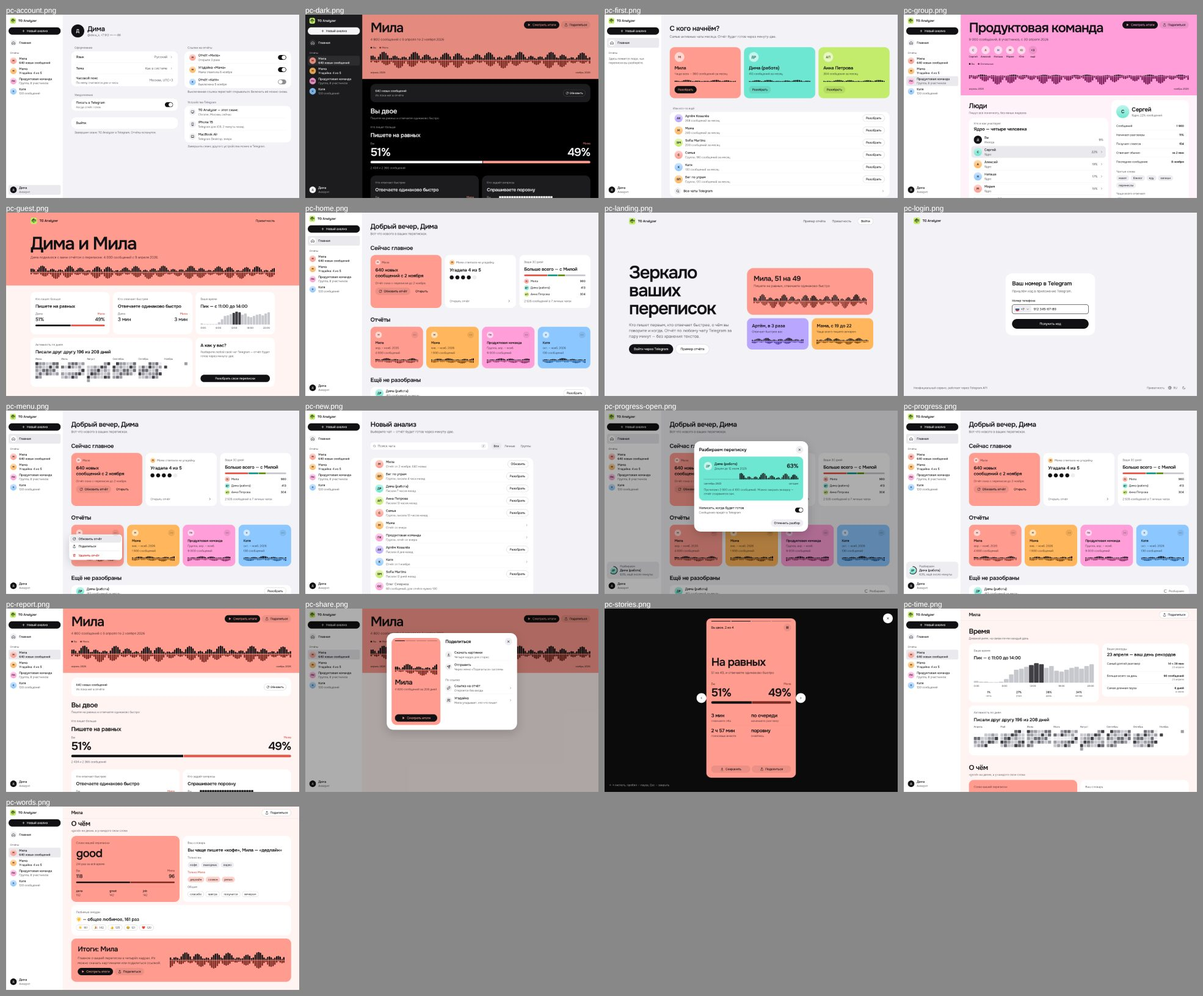
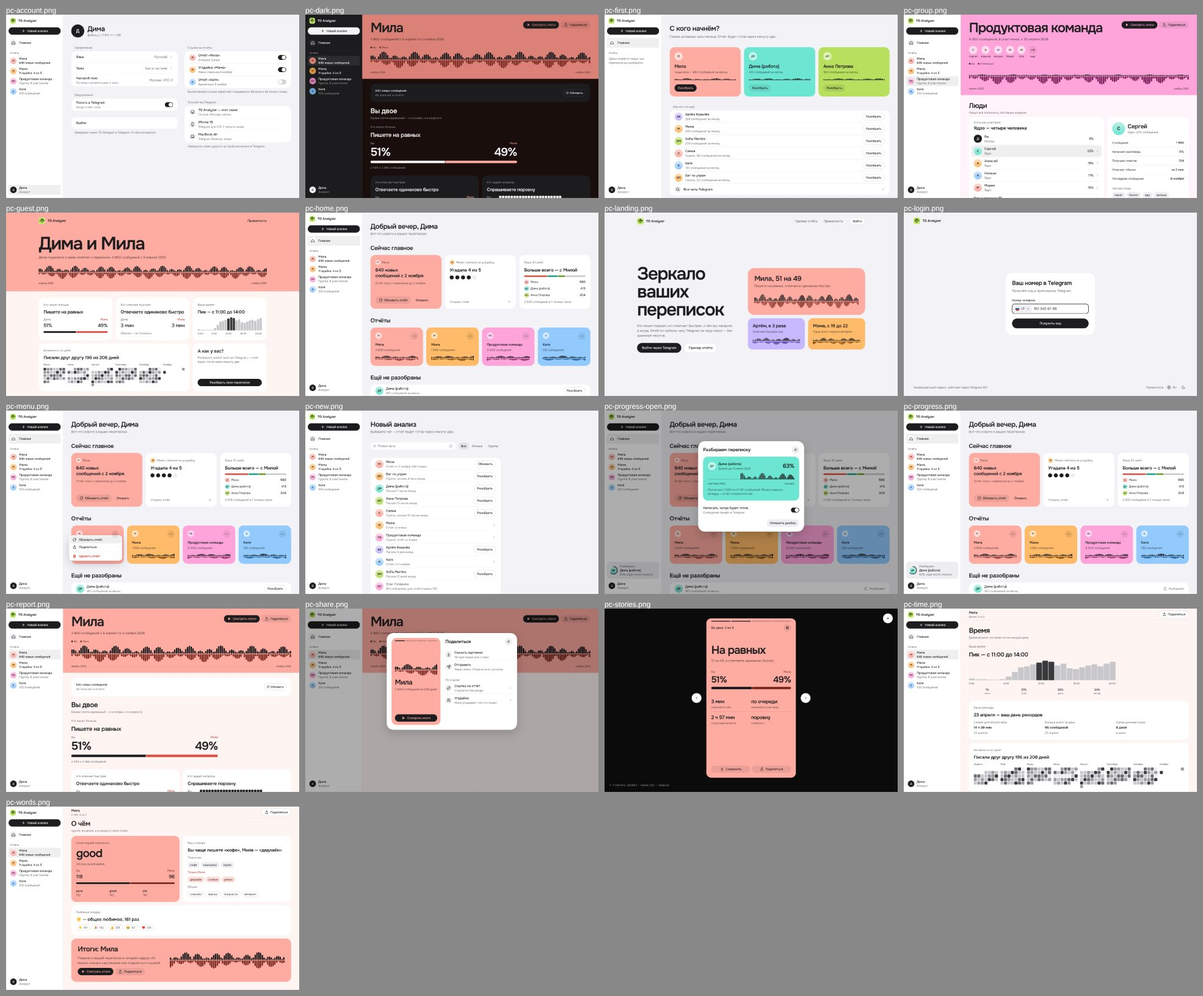
Mockups read as one product: one row value, one sheet anatomy, chapter in the desktop header, tinted dark rooms
Claude-Session: https://claude.ai/code/session_0138LxsFKP5n8SxjtSAnZS23

diff --git a/docs/design/portrait-v3/generator/desktop.py b/docs/design/portrait-v3/generator/desktop.py
@@ -19,7 +19,7 @@ def sec(title, inner, extra=''):
 def quiz_tile():
     dots = ''.join(f'<i style="width:20px;height:20px;border-radius:50%;background:{"var(--you)" if k < 4 else "var(--surface-2)"}"></i>' for k in range(5))
     return f'''<a href="#" class="tile">
-  <span class="row-f gap-2 t-small muted">{av('mama', 24)}Мама ответила на угадайку</span>
+  <span class="ev-label t-small muted">{av('mama', 24)}Мама ответила на угадайку</span>
   <h3 class="a">Угадала 4 из 5</h3><span class="row-f gap-2" aria-hidden="true">{dots}</span>
   <span class="row-f between t-small muted mt-auto">Открыть отчёт{ic('chev', 'chev')}</span></a>'''
 
@@ -27,15 +27,15 @@ def quiz_tile():
 def month_tile():
     data = [('mila', 980), ('dima', 413), ('anna', 304)]
     segs = ''.join(f'<i data-hue="{P[k][2]}" style="flex:{n};background:var(--them)"></i>' for k, n in data) + '<i style="flex:838;background:var(--chart-neutral)"></i>'
-    rows = ''.join(f'<div class="row-f gap-2">{av(k, 24)}<span class="t-small grow trunc">{P[k][0]}</span><span class="t-small-strong">{n}</span></div>' for k, n in data)
-    return f'''<article class="tile"><p class="q">Ваши 30 дней</p><h3 class="a">Больше всего — с Милой</h3>
+    rows = ''.join(f'<div class="row-f gap-2">{av(k, 24)}<span class="t-small grow trunc">{P[k][0]}</span><span class="val">{n}</span></div>' for k, n in data)
+    return f'''<article class="tile"><p class="q ev-label">Ваши 30 дней</p><h3 class="a">Больше всего — с Милой</h3>
   <div class="bar" role="img" aria-label="Мила 980, Дима (работа) 413, Анна Петрова 304, остальные 838">{segs}</div>
   <div class="stack gap-2">{rows}</div><p class="note mt-auto">2 535 сообщений в 7 личных чатах</p></article>'''
 
 
 def home_reports(menu=''):
-    return ('<div class="grid-4">' + mini_poster('mila', '4 800 сообщений', 1, 188, 'апр. – нояб. 2026', menu=menu) + mini_poster('mama', '1 900 сообщений', 2, 188, 'янв. – нояб. 2026')
-            + mini_poster('team', '9 000 сообщений', 3, 188, 'Группа, апр. – нояб.') + mini_poster('katya', '130 сообщений', 4, 188, 'окт. – нояб. 2026') + '</div>')
+    return ('<div class="grid-4">' + mini_poster('mila', '4 800 сообщений', 1, 188, menu=menu) + mini_poster('mama', '1 900 сообщений', 2, 188)
+            + mini_poster('team', '9 000 сообщений', 3, 188) + mini_poster('katya', '130 сообщений', 4, 188) + '</div>')
 
 
 def home_main(menu='', busy=None):
@@ -86,9 +86,10 @@ def poster_pc(name='Мила', meta='4 800 сообщений с 9 апреля 
 </section>'''
 
 
-def report_bar(name):
-    """The header after the poster has scrolled away: material, the name and one action. No chapter switcher."""
-    return f'<div class="row-f gap-4 material" style="padding:var(--space-3) var(--page-gutter)"><span class="t-h3 grow">{name}</span>{btn("Поделиться", "secondary", "md", "share")}</div>'
+def report_bar(name, chapter=''):
+    """The header after the poster has scrolled away: material, the name, the chapter under it, one action. No chapter switcher."""
+    ch = f'<span class="t-caption muted" style="font-weight:400">{chapter}</span>' if chapter else ''
+    return f'<div class="row-f gap-4 material" style="padding:var(--space-2) var(--page-gutter)"><span class="grow stack"><b class="t-title" style="font-weight:600">{name}</b>{ch}</span>{btn("Поделиться", "secondary", "md", "share")}</div>'
 
 
 T_VOICE = tile('Голосовые', 'Мила записывает дольше', cmp('Вы', 'Мила', '1 ч 12 мин', '1 ч 45 мин', 41)
@@ -112,11 +113,11 @@ def D_time():
     body = f'''<div class="cards" style="flex:1;min-height:0;overflow:hidden;padding:var(--space-6) var(--page-gutter)">{chapter_head('Время', LEDE['time'])}
   {T_HOURS}{records_pc()}{heat_tile}
   <div style="height:var(--space-6)"></div>{chapter_head('О чём', LEDE['words'])}<div class="grid-2">{WORD}{VOCAB}</div></div>'''
-    return shell(sidebar('mila'), report_bar('Мила') + body, title='Отчёт — Время', hue='red', room=True)
+    return shell(sidebar('mila'), report_bar('Мила', 'Время, 2 из 3') + body, title='Отчёт — Время', hue='red', room=True)
 
 
 def records_pc():
-    facts = ''.join(f'<div class="stack gap-1"><span class="t-small muted">{k}</span><b class="t-h2">{v}</b><span class="t-small muted">{d}</span></div>'
+    facts = ''.join(f'<div class="stack gap-1"><span class="t-small muted">{k}</span><b class="t-title" style="font-weight:600">{v}</b><span class="t-small muted">{d}</span></div>'
                     for k, v, d in [('Самый долгий разговор', '14 ч 39 мин', '23 апреля'), ('Больше всего за день', '96 сообщений', '23 апреля'), ('Самая длинная пауза', '6 дней', 'в июле')])
     return tile('Ваши рекорды', '23 апреля — ваш день рекордов', f'<div class="grid-3">{facts}</div>')
 
@@ -131,7 +132,7 @@ def ending_pc():
 def D_words():
     body = f'''<div class="cards" style="flex:1;min-height:0;justify-content:flex-end;overflow:hidden;padding:0 var(--page-gutter) var(--space-10)">{chapter_head('О чём', LEDE['words'])}
   <div class="grid-2">{WORD}{VOCAB}</div>{EMOJI}{ending_pc()}</div>'''
-    return shell(sidebar('mila'), report_bar('Мила') + body, title='Отчёт — О чём', hue='red', room=True)
+    return shell(sidebar('mila'), report_bar('Мила', 'О чём, 3 из 3') + body, title='Отчёт — О чём', hue='red', room=True)
 
 
 def D_group():
@@ -139,8 +140,8 @@ def D_group():
     poster = poster_pc('Продуктовая команда', '9 000 сообщений, 8 участников, с 30 апреля 2026', ('Вы', 'Остальные'), cast, up_scale=0.2)
     members = tile('Кто и как участвует', 'Ядро — четыре человека', member_rows('sergey') + row('', 'Все участники (8)', '', '', 'compact', True, True), rows=True)
     inspector = f'<aside class="inspector" aria-label="Сергей">{member_body()}</aside>'
-    body = f'''<div style="display:grid;grid-template-columns:minmax(0,1fr) var(--inspector);gap:var(--card-gap);padding:var(--space-6) var(--page-gutter);align-items:start">
-  <div class="cards">{chapter_head('Люди', 'Пишут все понемногу, без явных лидеров')}{members}{awards_tile()}</div>{inspector}</div>'''
+    body = f'''<div style="padding:var(--space-6) var(--page-gutter) 0">{chapter_head('Люди', 'Пишут все понемногу, без явных лидеров')}</div><div style="display:grid;grid-template-columns:minmax(0,1fr) var(--inspector);gap:var(--card-gap);padding:var(--space-3) var(--page-gutter);align-items:start">
+  <div class="cards">{members}{awards_tile()}</div>{inspector}</div>'''
     return shell(sidebar('team'), poster + body, title='Группа — Люди', hue='pink', room=True)
 
 
@@ -187,12 +188,12 @@ def D_share():
 
 
 def D_stories():
-    slide = f'''<div class="poster stack" data-hue="red" role="dialog" aria-modal="true" aria-label="Итоги, кадр 2 из 4" style="position:absolute;left:50%;top:48px;width:440px;height:782px;margin-left:-220px;border-radius:var(--radius-lg);padding:var(--space-3) var(--space-6) var(--space-6);overflow:hidden">
+    slide = f'''<div class="poster stack phone-scale" data-hue="red" role="dialog" aria-modal="true" aria-label="Итоги, кадр 2 из 4" style="position:absolute;left:50%;top:48px;width:440px;height:782px;margin-left:-220px;border-radius:var(--radius-lg);padding:var(--space-3) var(--space-6) var(--space-6);overflow:hidden">
   <div class="story-seg" style="grid-template-columns:repeat(4,1fr)"><i class="on"></i><i class="on"></i><i></i><i></i></div>
   <div class="row-f between" style="margin-top:var(--space-3)"><span class="t-ui">Вы двое, 2 из 4</span>{ibtn('pause', 'Пауза', 'on-poster')}</div>
   {STORY_TOGETHER}{STORY_ACTIONS.replace('"btn btn-poster-2 lg', '"btn btn-poster-2 md')}</div>'''
-    nav = (f'<button class="icon-btn lg" aria-label="Предыдущий кадр" style="position:absolute;left:452px;top:415px">{ic("back")}</button>'
-           f'<button class="icon-btn lg" aria-label="Следующий кадр" style="position:absolute;right:452px;top:415px">{ic("chev")}</button>'
+    nav = (f'<button class="icon-btn lg" aria-label="Предыдущий кадр" style="position:absolute;left:428px;top:415px">{ic("back")}</button>'
+           f'<button class="icon-btn lg" aria-label="Следующий кадр" style="position:absolute;right:428px;top:415px">{ic("chev")}</button>'
            f'<button class="icon-btn lg" aria-label="Закрыть" style="position:absolute;right:var(--space-6);top:var(--space-6)">{ic("x")}</button>'
            f'<p class="t-small" style="position:absolute;left:var(--space-6);bottom:var(--space-6);color:var(--story-hint)">← → листать, пробел — пауза, Esc — закрыть</p>')
     return page('Итоги на ПК', f'<div class="backdrop" style="position:absolute;inset:0"></div>{slide}{nav}', pc=True)
@@ -241,10 +242,10 @@ def D_guest():
   <div class="row-f between">{logo(32, word=True)}<a href="#" class="t-ui">Приватность</a></div>
   <div class="poster-name" style="margin-top:var(--space-10)"><h1 class="t-display">Дима и Мила</h1></div>
   <p class="t-body muted">Дима поделился с вами отчётом о переписке: 4 800 сообщений с 9 апреля 2026.</p>
-  <div style="margin-top:var(--space-4)">{pulse(150, 32, 1.0)}</div></section>'''
+  <div style="margin-top:var(--space-4)">{pulse(150, 32, 1.0)}</div><div class="axis"><span>апрель 2026</span><span>ноябрь 2026</span></div></section>'''
     tiles = f'''<h2 class="sr-only">Главное</h2><div class="grid-3" style="padding:var(--space-8) max(var(--page-gutter), calc((100% - var(--page-max)) / 2 + var(--page-gutter)));align-items:stretch">
   {tile('Кто пишет больше', 'Пишете на равных', cmp('Дима', 'Мила', '51%', '49%', 51))}
-  {tile('Кто отвечает быстрее', 'Отвечаете одинаково быстро', cmp('Дима', 'Мила', '3 мин', '3 мин'))}
+  {tile('Кто отвечает быстрее', 'Отвечаете одинаково быстро', cmp('Дима', 'Мила', '3 мин', '3 мин') + '<p class="note">Обычно — за 3 минуты.</p>')}
   {tile('Ваше время', 'Пик — с 11:00 до 14:00', hours(h=64))}
   <div style="grid-column:1/3">{tile('Активность по дням', 'Писали друг другу 196 из 208 дней', months_heat(MONTHS[2:], 6))}</div>
   <section class="tile" style="justify-content:space-between"><div class="stack gap-2"><h3 class="a">А как у вас?</h3><p class="note">Разберите любой свой чат Telegram — отчёт будет готов через минуту-две.</p></div>{btn('Разобрать свои переписки', 'primary', 'md block', tag='a')}</section>
@@ -266,7 +267,7 @@ def T_home():
 
 
 def T_report():
-    body = f'''{poster_ph()}<div class="cards column" style="padding:var(--space-6) var(--page-gutter)">{stale()}{chapter_head('Вы двое', LEDE['together'])}{HERO_SHARE}{cols2(T_SPEED, T_QUESTIONS)}{T_HABITS}</div>'''
+    body = f'''{poster_ph()}<div class="cards column" style="padding:var(--space-6) var(--page-gutter)">{stale()}{chapter_head('Вы двое', LEDE['together'])}{HERO_SHARE}<div class="grid-2">{T_SPEED}{T_QUESTIONS}</div>{T_HABITS}</div>'''
     return page('Планшет — отчёт', body, w=820, h=1180, hue='red', room=True).replace('class="app ph', 'class="app ph tab', 1)
 
 

diff --git a/docs/design/portrait-v3/generator/phone.py b/docs/design/portrait-v3/generator/phone.py
@@ -28,10 +28,10 @@ REPORT_TILES = ('<div class="grid-2">' + mini_poster('mila', '4 800 сообще
 
 def lead_mila():
     return f'''<article class="tile poster" data-hue="red">
-  <a href="#" class="row-f gap-2 t-small muted">{av('mila', 24)}Мила</a>
+  <a href="#" class="ev-label t-small muted">{av('mila', 24)}Мила</a>
   <h3 class="t-h3">640 новых сообщений с 2 ноября</h3>
   <p class="t-small muted">Отчёт пока о переписке до 2 ноября.</p>
-  <div class="row-f gap-2">{btn('Обновить отчёт', 'poster-2', 'md', 'refresh')}{btn('Открыть', 'plain', 'md', tag='a')}</div></article>'''
+  <div class="row-f gap-2 mt-auto">{btn('Обновить отчёт', 'poster-2', 'md', 'refresh')}{btn('Открыть', 'plain', 'md', tag='a')}</div></article>'''
 
 
 def home(lead, theme=None, fab=FAB):
@@ -139,7 +139,8 @@ def report_actions(key='mila'):
 def S_menu():
     sheet = f'''<section class="sheet" role="dialog" aria-modal="true" aria-label="Отчёт «Мила»">
   <span class="grabber"></span>
-  <div class="row-f gap-3">{av('mila', 40)}<div class="grow stack"><h2 class="t-h3">Мила</h2><p class="t-small muted">Отчёт от 2 ноября, 4 800 сообщений</p></div>{ibtn('x', 'Закрыть')}</div>
+  {sheet_head('Отчёт')}
+  <div class="stack">{row(av('mila'), 'Мила', 'Отчёт от 2 ноября, 4 800 сообщений')}</div>
   {report_actions()}
 </section>'''
     return page('Действия с отчётом («⋯» на карточке)', dim_home() + '<div class="scrim"></div>' + sheet)
@@ -180,7 +181,7 @@ def chapter_head(title, lede):
 
 
 HERO_SHARE = hero('Кто пишет больше', 'Пишете на равных', cmp('Вы', 'Мила', '51%', '49%', 51) + '<p class="t-small muted">2 434 и 2 366 сообщений</p>')
-T_SPEED = tile('Кто отвечает быстрее', 'Отвечаете одинаково быстро', cmp('Вы', 'Мила', '3 мин', '3 мин') + '<p class="note">Обычно — за 3 минуты. Ночью дольше у обоих.</p>')
+T_SPEED = tile('Кто отвечает быстрее', 'Отвечаете одинаково быстро', cmp('Вы', 'Мила', '3 мин', '3 мин') + '<p class="note">Обычно — за 3 минуты. Ночью дольше у обоих.</p>')
 T_QUESTIONS = tile('Кто задаёт вопросы', 'Спрашиваете поровну',
                    '<div style="display:grid;grid-template-columns:var(--space-12) minmax(0,1fr);gap:var(--space-2) var(--space-3);align-items:center">'
                    '<span class="t-small muted">Вы</span><span class="squares">' + '<i></i>' * 22 + '</span>'
@@ -239,16 +240,9 @@ def S_ending():
     return page('Отчёт — конец', ph_report_nav('Мила', 'О чём, 3 из 3') + scrolled + ending(), hue='red', room=True)
 
 
-def fan():
-    cards = ''
-    for i, (x, y, r) in enumerate([(0, 6, -8), (12, 2, -2), (24, 0, 5)]):
-        inner = f'<span class="story-seg" style="grid-template-columns:repeat(4,1fr)"><i class="on"></i><i></i><i></i><i></i></span><span class="stack gap-1"><b>Мила</b>{pulse(10, 5, 1.0)}</span>' if i == 2 else ''
-        cards += f'<span class="thumb916" style="left:{x}px;top:{y}px;transform:rotate({r}deg);padding:var(--space-2)">{inner}</span>'
-    return f'<span class="fan" aria-hidden="true">{cards}</span>'
-
-
 def stories_feature(size='md'):
-    return f'''<a href="#" class="feature poster" data-hue="red">{fan()}
+    cover = f'<span class="cover-thumb" aria-hidden="true"><span class="story-seg" style="grid-template-columns:repeat(4,1fr)"><i class="on"></i><i></i><i></i><i></i></span><span class="stack gap-1"><b class="t-small-strong">Мила</b>{pulse(12, 8, 1.0)}</span></span>'
+    return f'''<a href="#" class="feature poster" data-hue="red">{cover}
   <span class="grow stack gap-1"><b class="t-h3">Итоги: Мила</b><span class="t-small muted">Четыре кадра о вашей переписке</span>
   <span style="margin-top:var(--space-3)">{btn('Смотреть', 'poster', size, 'play', tag='span')}</span></span></a>'''
 
@@ -300,7 +294,7 @@ def story(content, i=1, n=4, label='Итоги: Мила'):
 
 
 def S_story_cover():
-    c = f'''<div class="stack grow gap-6" style="justify-content:center">
+    c = f'''<div class="stack grow gap-6 story-body">
   {pulse(40, 72, 1.0)}
   <div class="stack gap-3 poster-name"><h1 class="t-display">Мила</h1><p class="t-h3">4 800 сообщений за 208 дней</p>
   <p class="t-small muted">С 9 апреля по 2 ноября 2026</p></div>
@@ -308,7 +302,7 @@ def S_story_cover():
     return page('Итоги — обложка', story(c, 1, label='Итоги, 1 из 4'), hue='red')
 
 
-STORY_TOGETHER = f'''<div class="stack grow gap-8" style="justify-content:center">
+STORY_TOGETHER = f'''<div class="stack grow gap-8 story-body">
   <div class="stack gap-3"><h1 class="t-display">На равных</h1><p class="t-body muted">51 на 49, и отвечаете одинаково быстро</p></div>
   <div class="big">{cmp('Вы', 'Мила', '51%', '49%', 51)}</div>
   <div class="facts"><div><b>3 мин</b><span>отвечаете оба</span></div><div><b>по очереди</b><span>начинаете разговор</span></div>
@@ -321,7 +315,7 @@ def S_story():
 
 
 def S_story_end():
-    c = f'''<div class="stack grow gap-8" style="justify-content:center">
+    c = f'''<div class="stack grow gap-8 story-body">
   <h1 class="t-display">Вы и Мила</h1>
   <div class="facts"><div><b>51 на 49</b><span>пишете на равных</span></div><div><b>11–14</b><span>ваши часы</span></div>
   <div><b>«good»</b><span>слово переписки</span></div><div><b>196 дней</b><span>из 208 на связи</span></div></div>
@@ -336,12 +330,13 @@ def member_rows(sel=None):
     out = ''
     for k, n, role, s in GROUP_MEMBERS:
         a = av(None, 40, True) if k == 'you' else av(k)
-        out += row(a, n, role, f'<span class="t-ui muted">{s}</span>', 'compact' + (' is-selected' if k == sel else ''), k != 'you', k != 'you')
+        trail = f'<span class="val">{s}</span>' + ('<span class="chev-space"></span>' if k == 'you' else '')
+        out += row(a, n, role, trail, 'compact' + (' is-selected' if k == sel else ''), k != 'you', k != 'you')
     return out
 
 
 def awards_tile():
-    return tile('Номинации', None, ''.join(row(av(k, 32), t, f'<span class="them-ink" data-hue="{P[k][2]}">{P[k][0]}</span>, {v}', '', 'compact') for k, t, v in [
+    return tile('Номинации', None, ''.join(row(av(k, 32), t, f'{P[k][0]}, {v}', '', 'compact') for k, t, v in [
         ('yulia', 'Заводит разговоры', '15% разговоров'), ('alexey', 'Отвечает больше всех', '41 ответ в день'), ('sergey', 'Звезда реакций', '468 реакций'), ('maria', 'Укладывает чат спать', '24 раза')]), rows=True)
 
 
@@ -351,16 +346,14 @@ def S_group():
 
 
 def pairs_tile():
-    def nm(k):
-        return f'<span class="them-ink" data-hue="{P[k][2]}">{P[k][0]}</span>'
-    return tile('Самые плотные пары', 'Наташа и Мария', ''.join(row('', f'{nm(a)} и {nm(b)}', m, f'<span class="t-ui muted">{c}</span>', 'compact') for a, b, m, c in [
+    def duo(a, b):
+        return f'<span class="row-f" style="flex:none">{av(a, 24)}<span style="margin-left:calc(-1 * var(--space-2))">{av(b, 24)}</span></span>'
+    return tile('Самые плотные пары', 'Наташа и Мария', ''.join(row(duo(a, b), f'{P[a][0]} и {P[b][0]}', m, f'<span class="val">{c}</span>', 'compact') for a, b, m, c in [
         ('natasha', 'maria', 'Отвечают друг другу чаще всех', '309'), ('natasha', 'sergey', '', '214'), ('natasha', 'yulia', '', '188')]), rows=True)
 
 
 def starts_tile():
-    def nm(k):
-        return f'<span class="them-ink" data-hue="{P[k][2]}">{P[k][0]}</span>'
-    return tile('Кто начинает разговоры', 'Чаще всех — Юля', ''.join(kv(nm(k), v) for k, v in [('yulia', '15%'), ('alexey', '13%'), ('sergey', '11%')]), rows=True)
+    return tile('Кто начинает разговоры', 'Чаще всех — Юля', ''.join(row(av(k, 24), P[k][0], '', f'<span class="val">{v}</span>', 'compact') for k, v in [('yulia', '15%'), ('alexey', '13%'), ('sergey', '11%')]), rows=True)
 
 
 def S_group_talk():
@@ -374,7 +367,7 @@ def member_body():
     return f'''<div class="row-f gap-3">{av('sergey', 64)}<div class="grow stack"><h3 class="t-h2">Сергей</h3><p class="t-small muted">Ядро, 22% сообщений</p></div></div>
   <div class="stack">{kv('Сообщений', '1 980')}{kv('Начинает разговоры', '11%')}{kv('Получает ответов', '154')}{kv('Отвечает обычно', 'за 2 мин')}{kv('Последнее сообщение', '8 ноября')}</div>
   <div class="stack gap-2"><p class="t-small muted">Частые слова</p>{chips(['макет', 'бэклог', 'еду', 'запиши', 'перенесли'])}</div>
-  <div class="stack"><p class="t-small muted">Чаще всего отвечает</p>{row(av('natasha', 32), 'Наташе', '', '<span class="t-ui muted">214</span>', 'compact')}{row(av('maria', 32), 'Марии', '', '<span class="t-ui muted">156</span>', 'compact')}</div>'''
+  <div class="stack"><p class="t-small muted">Чаще всего отвечает</p>{row(av('natasha', 32), 'Наташе', '', '<span class="val">214</span>', 'compact')}{row(av('maria', 32), 'Марии', '', '<span class="val">156</span>', 'compact')}</div>'''
 
 
 def S_member():

diff --git a/docs/design/portrait-v3/generator/system.py b/docs/design/portrait-v3/generator/system.py
@@ -10,17 +10,36 @@ targets, sheets, bar material), Radix Themes (space 4…80), Primer (layers), Ma
 # on_them = the person on their own poster (lower pulse, their bar, their name; ≥ 4.5:1 on the poster);
 # tint = chips and avatar tops; room = page tint; poster_d = dark theme poster, dimmed so it does not glare.
 # One ladder for all seven (OKLCH L): poster .82–.85 (each family the lightest step that keeps its chroma), tint .92, them .62, them_ink .52,
-# on_them .41, room .977, dark poster = poster − .07 —
+# on_them .41, room .977, dark poster = poster − .12, dark room = the hue at L .18 C .02 —
 # every person is equally loud; each keeps its own hue angle and as much chroma as sRGB allows.
 HUES = {
-    'red':    dict(poster='#FEABA1', tint='#FFDBD5', them='#E04C3E', them_ink='#B92E23', on_them='#7C2C24', room='#FEF5F3', poster_d='#ED9186'),
-    'orange': dict(poster='#FFBB69', tint='#FEDFB8', them='#C66B01', them_ink='#9F5104', on_them='#6F3C02', room='#FEF6EB', poster_d='#E7A556'),
-    'violet': dict(poster='#C6B9FE', tint='#E7DFFF', them='#846CEF', them_ink='#634AD6', on_them='#45339E', room='#F8F6FF', poster_d='#B1A0EF'),
-    'green':  dict(poster='#B8DF5E', tint='#DDEEAC', them='#649820', them_ink='#4A7812', on_them='#365502', room='#F4FBE7', poster_d='#A2C756'),
-    'teal':   dict(poster='#6CE6D2', tint='#BEF1E8', them='#149B8C', them_ink='#147A6A', on_them='#0A574C', room='#EEFBF8', poster_d='#62CDBB'),
-    'blue':   dict(poster='#92CAFE', tint='#D1E7FF', them='#2A89E1', them_ink='#1869BD', on_them='#104A88', room='#F2F8FE', poster_d='#7EB4E5'),
-    'pink':   dict(poster='#FFA4DA', tint='#FFD7EF', them='#D544A4', them_ink='#AE297F', on_them='#7C1F5A', room='#FFF4FA', poster_d='#E68FC3'),
+    'red':    dict(poster='#FEABA1', tint='#FFDBD5', them='#E04C3E', them_ink='#B92E23', on_them='#7C2C24', room='#FEF5F3', poster_d='#DC8177'),
+    'orange': dict(poster='#FFBB69', tint='#FEDFB8', them='#C66B01', them_ink='#9F5104', on_them='#6F3C02', room='#FEF6EB', poster_d='#D69546'),
+    'violet': dict(poster='#C6B9FE', tint='#E7DFFF', them='#846CEF', them_ink='#634AD6', on_them='#45339E', room='#F8F6FF', poster_d='#A191DF'),
+    'green':  dict(poster='#B8DF5E', tint='#DDEEAC', them='#649820', them_ink='#4A7812', on_them='#365502', room='#F4FBE7', poster_d='#93B745'),
+    'teal':   dict(poster='#6CE6D2', tint='#BEF1E8', them='#149B8C', them_ink='#147A6A', on_them='#0A574C', room='#EEFBF8', poster_d='#50BDAB'),
+    'blue':   dict(poster='#92CAFE', tint='#D1E7FF', them='#2A89E1', them_ink='#1869BD', on_them='#104A88', room='#F2F8FE', poster_d='#6EA4D4'),
+    'pink':   dict(poster='#FFA4DA', tint='#FFD7EF', them='#D544A4', them_ink='#AE297F', on_them='#7C1F5A', room='#FFF4FA', poster_d='#D580B3'),
 }
+
+def _dark_room(room):
+    """Dark theme room: the person's hue at L .18, C .02 — tinted black, not pure black."""
+    import math
+    r, g, b = [int(room[i:i + 2], 16) / 255 for i in (1, 3, 5)]
+    lin = [x / 12.92 if x <= 0.04045 else ((x + 0.055) / 1.055) ** 2.4 for x in (r, g, b)]
+    l = (0.4122214708 * lin[0] + 0.5363325363 * lin[1] + 0.0514459929 * lin[2]) ** (1 / 3)
+    m = (0.2119034982 * lin[0] + 0.6806995451 * lin[1] + 0.1073969566 * lin[2]) ** (1 / 3)
+    s_ = (0.0883024619 * lin[0] + 0.2817188376 * lin[1] + 0.6299787005 * lin[2]) ** (1 / 3)
+    A = 1.9779984951 * l - 2.4285922050 * m + 0.4505937099 * s_
+    B = 0.0259040371 * l + 0.7827717662 * m - 0.8086757660 * s_
+    H = math.atan2(B, A)
+    L, C = 0.18, 0.02
+    a_, b_ = C * math.cos(H), C * math.sin(H)
+    l2, m2, s2 = [(L + x * a_ + y * b_) ** 3 for x, y in ((0.3963377774, 0.2158037573), (-0.1055613458, -0.0638541728), (-0.0894841775, -1.2914855480))]
+    rgb = [4.0767416621 * l2 - 3.3077115913 * m2 + 0.2309699292 * s2, -1.2684380046 * l2 + 2.6097574011 * m2 - 0.3413193965 * s2, -0.0041960863 * l2 - 0.7034186147 * m2 + 1.7076147010 * s2]
+    enc = [round(255 * min(1, max(0, 12.92 * x if x <= 0.0031308 else 1.055 * x ** (1 / 2.4) - 0.055))) for x in rgb]
+    return '#%02X%02X%02X' % tuple(enc)
+
 
 CSS = r"""
 :root, .app {
@@ -83,7 +102,7 @@ CSS = r"""
 }
 """ + ''.join(
     "[data-hue={n}]{{--poster:{poster};--room-tint:{tint};--them:{them};--them-ink:{them_ink};--on-them:{on_them};--room:{room};--room-glass:{glass};}}\n"
-    "[data-theme=dark] [data-hue={n}],[data-theme=dark][data-hue={n}]{{--poster:{poster_d};--room:var(--bg);--room-glass:var(--bar-glass);--room-tint:var(--surface-2);--them:{poster};--them-ink:{poster};}}\n".format(n=n, glass='rgba({},{},{},0.8)'.format(*[int(h['room'][i:i + 2], 16) for i in (1, 3, 5)]), **h)
+    "[data-theme=dark] [data-hue={n}],[data-theme=dark][data-hue={n}]{{--poster:{poster_d};--room:{room_d};--room-glass:var(--bar-glass);--room-tint:var(--surface-2);--them:{poster};--them-ink:{poster};}}\n".format(n=n, room_d=_dark_room(h['room']), glass='rgba({},{},{},0.8)'.format(*[int(h['room'][i:i + 2], 16) for i in (1, 3, 5)]), **h)
     for n, h in HUES.items()) + r"""
 * { box-sizing: border-box; }
 .app { font-family: var(--font-sans); color: var(--text); background: var(--bg); position: relative; overflow: hidden;
@@ -216,7 +235,7 @@ CSS = r"""
 .row > * { position: relative; }
 .kv { display: flex; justify-content: space-between; align-items: baseline; gap: var(--space-3); padding: var(--space-3) 0; box-shadow: inset 0 -1px 0 var(--border); font: var(--text-small); }
 .kv:last-child { box-shadow: none; }
-.kv > b { font-weight: 600; text-align: right; white-space: nowrap; }
+.kv > b { font: var(--text-ui); text-align: right; white-space: nowrap; color: var(--text); }
 .kv .sub { display: block; font: var(--text-caption); font-weight: 400; color: var(--text-muted); }
 .poster .kv .sub { color: var(--on-poster-muted); }
 .slot { width: 168px; display: flex; justify-content: flex-end; align-items: center; gap: var(--space-2); flex: none; }
@@ -403,6 +422,19 @@ CSS = r"""
 .link { text-decoration: underline; text-underline-offset: 0.2em; text-decoration-thickness: 1px; }
 .mask { letter-spacing: 0.2em; }
 .page-max { width: 100%; max-width: var(--page-max); }
+/* one row value: ui 500, ink, tabular, a fixed right column; rows without a chevron keep its place */
+.val { font: var(--text-ui); color: var(--text); white-space: nowrap; text-align: right; }
+.poster .val { color: var(--on-poster); }
+.chev-space { width: 16px; flex: none; }
+.row .btn.sm { min-width: 96px; }
+.ev-label { min-height: 24px; display: flex; align-items: center; gap: var(--space-2); }
+.pc .hero { max-width: var(--page-max-narrow); }
+/* a phone-size frame on desktop (stories) keeps the phone type */
+.pc .phone-scale { --text-display: 600 56px/56px var(--font-sans); --text-figure: 600 44px/48px var(--font-sans); --text-h1: 600 30px/36px var(--font-sans);
+  --text-h2: 600 24px/32px var(--font-sans); --text-h3: 600 20px/28px var(--font-sans); }
+.cover-thumb { width: 72px; height: 128px; flex: none; border-radius: var(--radius-sm); background: var(--poster); box-shadow: inset 0 0 0 1px var(--on-poster-line);
+  padding: var(--space-2); display: flex; flex-direction: column; justify-content: space-between; }
+.story-body { justify-content: flex-start; padding-top: var(--space-16); }
 .tab { --page-gutter: 32px; }
 .tab .column { width: 100%; max-width: 720px; margin: 0 auto; }
 .tab .poster > * { width: 100%; max-width: calc(720px - 2 * var(--page-gutter)); margin-left: auto; margin-right: auto; }

diff --git a/docs/design/portrait-v3/generator/systemboards.py b/docs/design/portrait-v3/generator/systemboards.py
@@ -129,8 +129,8 @@ def S_components():
     rules = ''.join(f'<li class="t-small" style="margin-bottom:var(--space-2)">{r}</li>' for r in [
         'Цвет означает только человека. Интерфейс и действия монохромны, «вы» — чернила, на постере человек — его глубокий тон.',
         'Одна главная кнопка на экран. На телефоне главное действие — плавающая кнопка внизу; кнопки внутри плиток тихие.',
-        'Одно действие — одно имя: «Разобрать» для нового чата, «Обновить отчёт» для готового, процесс — «Разбираем».',
-        'У каждой карточки есть ответ; первая находка главы — без карточки; мелкие факты — строками.',
+        'Одно действие — одно имя: «Разобрать» для нового чата, «Обновить отчёт» для готового (в компактной кнопке строки — «Обновить»), процесс — «Разбираем».',
+        'У каждой карточки есть ответ. Первая находка главы — без карточки; в «О чём» её место занимает «Слово переписки» — единственная плитка цвета постера в части. Мелкие факты — строками; значение строки — ui 500 чернилами в правой колонке.',
         'Материал (размытие) — только у панелей, под которые прокручивается контент. Плитки, кнопки и листы плоские.',
         'Листы на телефоне, окна на ПК; «Закрыть» у ведущего края. Подтверждение называет объект и последствия, фокус — на «Отменить».',
         'Всё, что есть в меню долгого нажатия, есть и на виду: кнопка «⋯» на карточке отчёта.',

diff --git a/docs/design/portrait-v3/generator/kit.py b/docs/design/portrait-v3/generator/kit.py
@@ -161,7 +161,7 @@ def chips(words, kind=''):
 
 
 def pulse(n=64, h=32, seed=1.0, mirrored=True, read_from=None, up_scale=1.0):
-    up = [max(2, round(v * up_scale)) for v in bars(n, seed, hi=h, lo=3)]
+    up = [max(4, round(v * up_scale)) for v in bars(n, seed, hi=h, lo=3)]
     if not mirrored:
         cells = ''.join(f'<i class="{"off" if read_from is not None and i < read_from else ""}" style="height:{(v if read_from is None or i >= read_from else 3)}px"></i>' for i, v in enumerate(up))
         return f'<div class="pulse" aria-hidden="true"><div class="one" style="height:{h}px">{cells}</div></div>'

diff --git a/docs/design/portrait-v3/audits/08-premium-review.md b/docs/design/portrait-v3/audits/08-premium-review.md
@@ -1,0 +1,26 @@
+# Аудит 3 — «выглядит как один премиальный продукт»
+
+> Независимый агент по скриншотам после применения шкал (09.11.2026). Оценка — 7,5 из 10. Ниже — что он нашёл и что сделано.
+
+| Находка                                                           | Решение                                                                                             |
+| ----------------------------------------------------------------- | --------------------------------------------------------------------------------------------------- |
+| Колонка чисел в списке «Ядро» ломается: у строки «Вы» нет шеврона | Место под шеврон зарезервировано (`.chev-space`)                                                    |
+| Значения в строках трёх разных стилей                             | Одно значение строки: `--text-ui`, 500, чернила, вправо (`.val`, `.kv b`)                           |
+| Первая находка главы: «О чём» начинается с плитки                 | Правило уточнено: в «О чём» её место занимает «Слово переписки» — единственная плитка цвета постера |
+| «Пишете на равных» на ПК растянута на 1080 px                     | Первая находка главы на ПК — не шире 720                                                            |
+| Рекорды на ПК: значения крупнее ответа                            | Значения — `--text-title` 600, ответ — h3                                                           |
+| Плитки в ряду на планшете разной высоты, висящее «обоих.»         | Ряд одной высоты, неразрывный пробел                                                                |
+| «Сейчас главное»: метки разной высоты, кнопки не у низа           | Метка события — строка 24, действия прижаты к низу                                                  |
+| Шапки листов устроены по-разному                                  | Лист действий — тем же образцом: «Закрыть» слева, заголовок по центру, отчёт первой строкой         |
+| Заголовки «Итогов» прыгают по вертикали; на ПК кегль ПК           | Заголовок от верхней безопасной зоны; кадр на ПК в шкале телефона (`.phone-scale`)                  |
+| Превью «Итогов» в листе — схема-заглушка                          | Настоящая обложка 72 × 128                                                                          |
+| На ПК в шапке отчёта не видно главы                               | Под именем — «Время, 2 из 3»                                                                        |
+| «Обновить» уже «Разобрать»                                        | Одна минимальная ширина компактной кнопки в строке — 96                                             |
+| Тёмная тема: комната чисто чёрная, постер слепит                  | Комната — оттенок человека (L 0.18, C 0.02), постер на ступень темнее (−0.12)                       |
+| Мини-постеры на ПК с датами, на телефоне без                      | Даты убраны везде                                                                                   |
+| Стрелки «Итогов» на ПК заходят на кадр                            | Вынесены наружу с зазором 24                                                                        |
+| Пульс группы: «Вы» читается как пунктир                           | Минимальная высота столбика 4                                                                       |
+| Гость на ПК: пустота под «3 мин», у постера нет оси               | Сноска и подписи оси                                                                                |
+| Имена в группах цветным текстом                                   | Имя чернилами, цвет — только у аватара (владельцу без разницы)                                      |
+
+Не взято: цели касания кнопок 36 px — у них уже есть невидимое поле до 48 (`::before`), на скриншоте его не видно.

diff --git a/docs/ROADMAP.md b/docs/ROADMAP.md
@@ -6,6 +6,15 @@
 
 ## ✅ Сделано
 
+### 2026-11-09 — «Портрет» v3: одна шкала и одна лестница цветов (по POLISH-PROMPT)
+
+- **Опись** (`docs/design/portrait-v3/audits/07-inventory.md`): все значения 56 досок и, для справки, устаревшего сайта. Было → стало: скругления 10 → 8, аватары 5 → 4, высоты контролов 7 → 5, иконки 7 → 6, кегли 20 → 17, стили текста 44 → 36, «сырых» значений в разметке 35 → 0.
+- **Шкалы с ролями:** отступы 2–64; 9 ролей шрифта; контролы 36 / 44 / 48, строка 56; иконки 16 / 20 / 24; аватары 24 / 32 / 40 / 64; линия 1 px, кольцо 2 px; две тени; движение 90 / 150 / 400 мс.
+- **Нейтрали Apple:** чернила #1D1D1F, вторичный #6C6C72.
+- **Цвета людей — одна лестница OKLCH:** постер 0.82–0.85 без потери насыщенности, тёмная «комната» с оттенком человека. Картинка «было / стало» — `sheets/ladder-compare.png`.
+- **Независимый аудит «премиальности»** (`audits/08-premium-review.md`): 7,5 / 10, 17 находок исправлены — одна колонка значений, одна анатомия листа, глава в шапке ПК, «Итоги» от одной линии и др.
+- 🔜 Перенос в код — по шкалам из `07-inventory.md`.
+
 ### 2026-11-09 — «Портрет» v3: финальные макеты всего продукта и порог «мало сообщений»
 
 - **Макеты** (`docs/design/portrait-v3/README.md`, холст https://claude.ai/artifact/FUWquFyzchDaEbHZ6BW98a):
